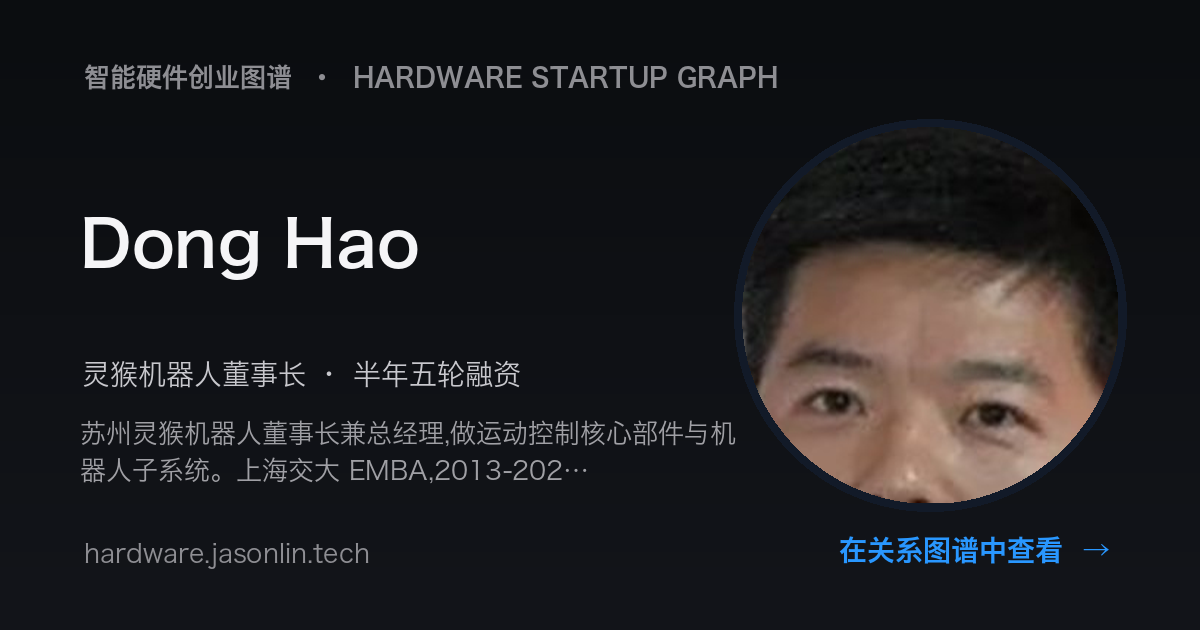
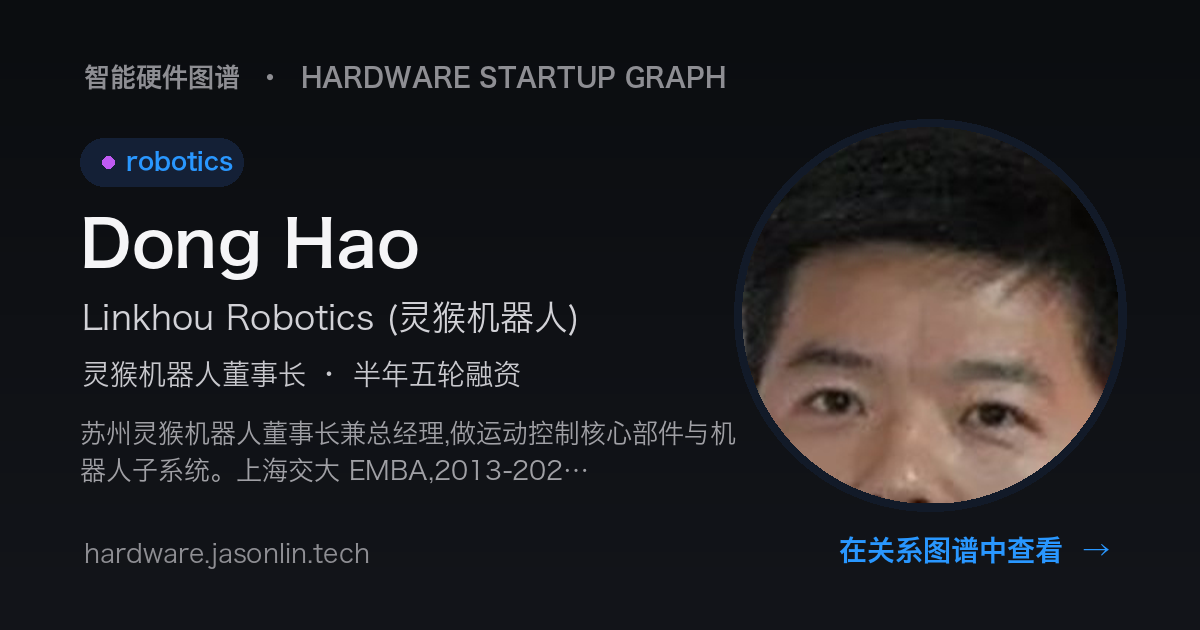
feat: 图谱周更 2026-09-05——7 条洞察(小鹏 9 亿美元/人形出货 2.2 万/Jeff Dean 创办 Discovery Loop/Inherent 27B/VAST 57 亿/QuantumLight 5 亿/Figma Q2)+ v=59;重刷 4 张 org 漏读的分享页
Claude-Session: https://claude.ai/code/session_01J8uaPH9eMgzrHih7Y7Prm5

Changed region(s): [[0.1542, 0.0905, 0.6475, 0.1508], [0.0617, 0.4825, 0.4933, 0.5429], [0.0617, 0.2111, 0.2158, 0.3016]]

diff --git a/insights-widget.js b/insights-widget.js
@@ -5,6 +5,13 @@
 // ============================================================
 
 const INSIGHTS_DATA = [
+  {"id": "vast-tripo-3b-series-b-2026-09", "date": "2026-09-01", "type": "funding", "graphs": ["ai-scholar", "investor"], "pinned": false, "title": "VAST 六个月吸金约 57 亿元：AI 3D 生成成了「半个游戏圈」的共同下注", "body": "**9 月 1 日，AI 3D 大模型公司 VAST（Tripo 母公司）宣布完成 B 轮与 B+ 轮融资，合计约 30 亿元，经纬创投领投**，完美世界、三七互娱、延趣游戏等游戏厂商集体入股，中金、CMC、达晨等老股东跟投。加上 7 月刚完成的超 10 亿元 A3 战略轮，**VAST 在不到六个月里累计融资约 57 亿元**，刷新 3D 原生智能领域纪录。创始人**宋亚宸生于 1997 年**，约翰霍普金斯本科，2019 年入商汤做 AIGC 3D，之后以 **MiniMax 001 号员工**身份参与创办 MiniMax，2022 年 11 月创立 VAST。数字侧：2025 年 7 月 ARR 达 1200 万美元；Tripo 教育计划覆盖 30 多国 350 余所高校。这轮的信号不在金额，而在**谁在出钱**——游戏公司不是财务投资人，是把自己的内容管线押在了「文本到可交互 3D 资产」上；同步发布的 Tripo P2.0 已能输出兼容 NVIDIA Isaac Sim 的物理仿真场景，3D 生成正在同时给游戏和具身智能供数据。", "persons": [{"id": "songyawei", "name": "Song Yawei"}, {"id": "zhangying", "name": "Zhang Ying"}], "sources": [{"label": "投资界 9/1", "url": "https://news.pedaily.cn/202609/568395.shtml"}, {"label": "钛媒体 9/3(创始人背景)", "url": "https://www.tmtpost.com/8127562.html"}]},
+  {"id": "xpeng-robotics-900m-round-2026-08", "date": "2026-08-25", "type": "funding", "graphs": ["hardware", "investor"], "pinned": false, "title": "小鹏机器人首轮融资超 9 亿美元、投后估值超 63 亿美元：中国具身智能单轮纪录被车企改写", "body": "**8 月 25 日，小鹏集团宣布旗下人形机器人业务完成首轮股权融资，规模超 9 亿美元，投后估值超 63 亿美元**，创下中国具身智能行业单轮私募股权融资纪录，超过此前任何一家本体公司的单轮金额。**IDG 资本领投、高榕创投参投，腾讯与阿里巴巴以战略投资者身份入局**；交割后小鹏集团仍控股，资金用于 IRON 人形机器人量产与小鹏物理 AI 模型迭代。值得注意的三点：一是**资本第一次给「车企造人」单独定价**——具身业务被从整车估值里剥离出来独立融资；二是 IDG 在同一个月同时押注了本体与上游，投资人图谱里 IDG 合伙人的具身版图再次扩大；三是这笔钱到账正好在宇树上市首日暴涨 460% 的一周后，一级市场用最快的速度把二级市场刚给出的定价锚兑现成了新估值。", "persons": [{"id": "xiaopenghe", "name": "He Xiaopeng"}, {"id": "xiongxg", "name": "Xiong Xiaoge"}, {"id": "gaorong", "name": "Gao Rong team"}], "sources": [{"label": "新浪财经 8/25", "url": "https://finance.sina.com.cn/jjxw/2026-08-25/doc-inipprnq5510289.shtml"}, {"label": "凤凰网(车企造人)", "url": "https://finance.ifeng.com/c/8vrMu2ZxSPC"}]},
+  {"id": "inherent-faraday-27b-2026-08", "date": "2026-08-22", "type": "research", "graphs": ["ai-scholar"], "pinned": false, "title": "Inherent：12 人团队用 27B 小模型「独立复现论文」胜过 Opus 4.8 与 GPT-5.5", "body": "**8 月 22 日，伦敦 AI 实验室 Inherent 发布 AI 智能体 Faraday**：在不预先知道答案的前提下独立复现已发表论文的结论，得分超过 Anthropic 的 Claude Opus 4.8 与 OpenAI 的 GPT-5.5——而底座只是 **270 亿参数的 Qwen 3.6**。公司由 DeepMind 出身的 **Edward Hughes**（首席科学家，曾共同领导 DeepMind 的 AI Scientist 团队、写下 Genie 1 的最终实现、参与 AlphaProof）、Louis Kirsch、Kaloyan Aleksiev 与 Tantum Collins 创办，5 月带着 **5000 万美元种子轮**走出隐身，目前约 12 人，年底计划扩到 20–25 人。它挑战的是一个越来越主流的假设——「科研智能体的能力来自更大的前沿模型」；Inherent 的答案是用开放式（open-ended）训练环境让小模型学会「做实验」本身。与 Jeff Dean 的 Discovery Loop、Periodic Labs 一道，「AI 科学家」正从大厂研究项目变成独立创业赛道。", "persons": [{"id": "edwardhughes", "name": "Edward Hughes"}, {"id": "jackph", "name": "Jack Parker-Holder"}], "sources": [{"label": "TechCrunch 8/22", "url": "https://techcrunch.com/2026/08/22/inherent-founded-by-deepmind-alumni-says-its-ai-teammate-just-outperformed-anthropic-and-openai-at-replicating-research/"}, {"label": "Edward Hughes 主页", "url": "https://edwardhughes.io/"}]},
+  {"id": "quantumlight-fund-ii-500m-2026-08", "date": "2026-08-19", "type": "non-consensus", "graphs": ["investor"], "pinned": false, "title": "QuantumLight 5 亿美元二期超募：算法选项目的 VC 用 15 个月把基金翻倍", "body": "**8 月 19 日，Revolut 创始人 Nik Storonsky 的风投机构 QuantumLight 宣布二期基金关账，规模 4.32 亿欧元（约 5 亿美元），超募**；距离 2025 年 5 月 2.22 亿欧元的一期仅 15 个月，规模翻倍。它的非共识在于方法：项目筛选由自研 AI 系统 **Aleph** 完成，评估成长期公司时**几乎不需要人工介入**，合伙人的角色更接近「审核算法输出」。成绩单：**27 家被投公司中 5 家已是独角兽**（Together AI、Function Health、Factory、Robin AI、Ben）。七十年来风险投资的护城河一直是关系网络与判断力，QuantumLight 押的是「数据密度已经足够让筛选被自动化」。真正的检验还没来——LP 用翻倍的钱投了赞成票，但算法型 VC 的组合从未经历过一次完整的估值回撤周期。", "persons": [], "sources": [{"label": "Fund Momentum 8/19", "url": "https://fundmomentum.vc/blog/quantumlight-fund-ii-500m-nik-storonsky-ai-driven-vc-2026"}, {"label": "Tech Funding News", "url": "https://techfundingnews.com/storonsky-quantumlight-closes-500m-fund-ii-ai-startups/"}]},
+  {"id": "humanoid-shipments-1h26-counterpoint", "date": "2026-08-19", "type": "trend", "graphs": ["hardware"], "pinned": false, "title": "上半年人形机器人出货 2.2 万台、同比近 300%：智元反超宇树登顶，但六成买家是「表演与采数据」", "body": "**Counterpoint 8 月 19 日数据：2026 上半年全球人形机器人出货超 2.2 万台，同比增长近 300%**。排名第一的是**智元（9,700 台，份额约 43%）**，宇树以 7,000 余台、31% 退居第二，两家合计约 75%，前五家占 86%——这是智元首次在出货量上反超宇树，时点恰在双方 IPO 前后。更该被看见的是用途结构：**娱乐表演与数据生产/科研合计占六成以上**，智能制造仅 13%，仓储物流 5%。换句话说，2026 年的人形机器人主要还是在「表演」和「给别的机器人当训练数据」，真正进产线的不到两成。Counterpoint 预测全年出货将超 5 万台（+210%）；对图谱里的本体公司而言，出货量榜单的座次正在替代融资额，成为新的叙事货币。", "persons": [{"id": "pengzhihui", "name": "Peng Zhihui"}, {"id": "wangxingxing", "name": "Wang Xingxing"}], "sources": [{"label": "Counterpoint 8/19", "url": "https://counterpointresearch.com/en/insights/global-humanoid-robot-shipments-soar-nearly-300-percent-yoy-in-h1-2026"}, {"label": "SCMP(智元反超宇树)", "url": "https://www.scmp.com/tech/tech-trends/article/3363544/agibot-overtakes-unitree-top-global-humanoid-robot-vendor-first-half-amid-ipo-push"}]},
+  {"id": "jeff-dean-discovery-loop-2026-08", "date": "2026-08-05", "type": "relationship", "graphs": ["ai-scholar", "investor"], "pinned": false, "title": "Jeff Dean 离开谷歌 27 年创办 Discovery Loop：带走 Ghemawat、Quoc Le、Vinyals，Alphabet 出钱又出一年算力", "body": "**8 月 5 日，谷歌首席科学家 Jeff Dean 宣布离开供职 27 年的谷歌（1999 年入职，第 30 号员工），出任新公司 Discovery Loop 的 CEO**。这是一家公益企业（PBC），目标是用 AI 自动化「提出假设—跑实验—学习结果」的科研闭环，同时并行发起数千个实验。联合创始人阵容几乎是谷歌系统与 AI 两条血脉的合流：**Sanjay Ghemawat**（Google Senior Fellow，与 Dean 合著 MapReduce/Bigtable/Spanner）、**Quoc Le**（Google Brain 创始成员）、**Oriol Vinyals**（DeepMind 研究副总裁、Gemini 联合负责人）。首轮由 **Radical Ventures 与 Khosla Ventures 联合领投**，Kleiner Perkins、Lightspeed、Doerr Capital 跟投；**Alphabet 既出资又承诺至少第一年的算力供应**——这更像谷歌为留住关系而设计的「体外孵化」，而不是一次单纯的人才流失。今年 DeepMind 已先后失去 David Silver、John Jumper 与三名核心研究员，这一次走的是「最像谷歌的那个人」。", "persons": [{"id": "dean", "name": "Jeff Dean"}, {"id": "ghemawat", "name": "Sanjay Ghemawat"}, {"id": "quocle", "name": "Quoc V. Le"}, {"id": "vinyals", "name": "Oriol Vinyals"}, {"id": "jordanjacobs", "name": "Jordan Jacobs"}, {"id": "vinodkhosla", "name": "Vinod Khosla"}], "sources": [{"label": "TechCrunch 8/5", "url": "https://techcrunch.com/2026/08/05/jeff-dean-and-other-top-ai-researchers-are-leaving-google-to-launch-their-own-startup/"}, {"label": "Bloomberg 8/6", "url": "https://www.bloomberg.com/news/articles/2026-08-06/google-grapples-with-exit-of-ai-pioneer-and-most-google-person"}]},
+  {"id": "figma-q2-2026-earnings", "date": "2026-08-05", "type": "non-consensus", "graphs": ["designer"], "pinned": false, "title": "四月被 Claude Design「杀死」的 Figma，Q2 营收增 48%、连续三个季度加速", "body": "**8 月 5 日，Figma 发布 2026 年二季度财报：营收 3.701 亿美元，同比增长 48%，连续第三个季度加速**；净收入留存率（NDR）136%，全年营收指引上调 4000 万美元至 14.63–14.67 亿美元（中值增长 39%）。这是 **AI credit 加购项完整变现的第一个季度**——客户在扩座位的同时开始为 AI 额度付费。对照四个月前的叙事：4 月 17 日 Anthropic 发布 Claude Design 当天，Figma 股价跌 6%，Adobe、Wix 同步下挫，「设计工具被前沿模型吞掉」一度成为共识。Dylan Field 在财报电话会上的回应是：**代码被商品化，价值向上移动，Figma 的机会反而变大了**。数据暂时站在他这边——至少在 2026 年，「AI 会杀死设计工具」和「设计工具因 AI 加速增长」同时成立，区别只在于谁把 AI 变成了可计费的额度。", "persons": [{"id": "dylanfield", "name": "Dylan Field"}], "sources": [{"label": "Figma IR 8/5", "url": "https://investor.figma.com/news-events/news/news-details/2026/Figma-Announces-Second-Quarter-2026-Financial-Results/default.aspx"}, {"label": "The New Stack(Claude Design 发布)", "url": "https://thenewstack.io/anthropic-claude-design-launch/"}]},
   {
     id: 'unitree-ipo-day-one-2026-08',
     date: '2026-08-20',

diff --git a/p/chenyuanpei.html b/p/chenyuanpei.html
@@ -5,28 +5,28 @@
    深色页面顶上留一条白边(2026-08-15 实测) */
 :root{color-scheme:dark}html{background:#000}</style>
 <script>try{document.documentElement.className=(localStorage.getItem('graphLang')==='en')?'lang-en':'lang-zh'}catch(e){document.documentElement.className='lang-zh'}</script>
-<title>Chen Yuanpei ·  | 智能硬件图谱</title>
+<title>Chen Yuanpei · PsiBot (灵初智能) | 智能硬件图谱</title>
 <meta name="description" content="与王启斌、柴晓杰共同创办灵初智能,是中国具身智能领域最年轻的创始人之一。2026 年 3 月前累计完成天使轮与 Pre-A 轮共 20 亿元(蓝驰创投、智元机器人为种子投资方),7 月估值破 10 亿美元。主张竞争焦点在数据而非硬件,致力于定义具身智能的 Human Data 标准。…">
 <link rel="canonical" href="https://hardware.jasonlin.tech/p/chenyuanpei.html">
 <meta property="og:type" content="profile"><meta property="og:url" content="https://hardware.jasonlin.tech/p/chenyuanpei.html">
-<meta property="og:title" content="Chen Yuanpei · ">
+<meta property="og:title" content="Chen Yuanpei · Co-founder of PsiBot · Post-00s Stanford Visiting Scholar">
 <meta property="og:description" content="与王启斌、柴晓杰共同创办灵初智能,是中国具身智能领域最年轻的创始人之一。2026 年 3 月前累计完成天使轮与 Pre-A 轮共 20 亿元(蓝驰创投、智元机器人为种子投资方),7 月估值破 10 亿美元。主张竞争焦点在数据而非硬件,致力于定义具身智能的 Human Data 标准。…">
 <meta property="og:site_name" content="智能硬件图谱"><meta property="og:locale" content="zh_CN">
 <meta property="og:image" content="https://hardware.jasonlin.tech/og/chenyuanpei.png"><meta property="og:image:width" content="1200"><meta property="og:image:height" content="630">
 <meta name="twitter:card" content="summary_large_image">
 <meta name="twitter:title" content="Chen Yuanpei"><meta name="twitter:description" content="与王启斌、柴晓杰共同创办灵初智能,是中国具身智能领域最年轻的创始人之一。2026 年 3 月前累计完成天使轮与 Pre-A 轮共 20 亿元(蓝驰创投、智元机器人为种子投资方),7 月估值破 10 亿美元。主张竞争焦点在数据而非硬件,致力于定义具身智能的 Human Data 标准。…">
 <meta name="twitter:image" content="https://hardware.jasonlin.tech/og/chenyuanpei.png">
-<script type="application/ld+json">{"@context": "https://schema.org", "@type": "ProfilePage", "mainEntity": {"@type": "Person", "name": "Chen Yuanpei", "alternateName": "陈源培", "jobTitle": "", "worksFor": {"@type": "Organization", "name": ""}, "description": "与王启斌、柴晓杰共同创办灵初智能,是中国具身智能领域最年轻的创始人之一。2026 年 3 月前累计完成天使轮与 Pre-A 轮共 20 亿元(蓝驰创投、智元机器人为种子投资方),7 月估值破 10 亿美元。主张竞争焦点在数据而非硬件,致力于定义具身智能的 Human Data 标准。", "url": "https://hardware.jasonlin.tech/p/chenyuanpei.html", "image": "https://hardware.jasonlin.tech/og/chenyuanpei.png"}}</script>
+<script type="application/ld+json">{"@context": "https://schema.org", "@type": "ProfilePage", "mainEntity": {"@type": "Person", "name": "Chen Yuanpei", "alternateName": "陈源培", "jobTitle": "Co-founder of PsiBot · Post-00s Stanford Visiting Scholar", "worksFor": {"@type": "Organization", "name": "PsiBot (灵初智能)"}, "description": "与王启斌、柴晓杰共同创办灵初智能,是中国具身智能领域最年轻的创始人之一。2026 年 3 月前累计完成天使轮与 Pre-A 轮共 20 亿元(蓝驰创投、智元机器人为种子投资方),7 月估值破 10 亿美元。主张竞争焦点在数据而非硬件,致力于定义具身智能的 Human Data 标准。", "url": "https://hardware.jasonlin.tech/p/chenyuanpei.html", "image": "https://hardware.jasonlin.tech/og/chenyuanpei.png"}}</script>
 <style>:root{color-scheme:dark}html{background:#000}</style></head><body>
 <button class="langtoggle" id="langtoggle" type="button" aria-label="切换语言 / Toggle language"><span class="i18n-zh">EN</span><span class="i18n-en">中</span></button>
 <div class="wrap">
 <a class="eyebrow" href="/"><span class="i18n-zh">智能硬件图谱</span><span class="i18n-en">Hardware Startup Graph</span> ↗</a>
 <img class="avatar" src="/assets/people/chenyuanpei.jpg" alt="Chen Yuanpei" width="108" height="108" loading="eager">
 <h1><span class="i18n-zh">陈源培</span><span class="i18n-en">Chen Yuanpei</span></h1>
-<p class="org"></p>
-<p class="role"><span class="i18n-zh">灵初智能联合创始人 · 00 后斯坦福访问学者</span><span class="i18n-en"></span></p>
-<div class="fields"></div>
-<div class="bio i18n-zh">与王启斌、柴晓杰共同创办灵初智能,是中国具身智能领域最年轻的创始人之一。2026 年 3 月前累计完成天使轮与 Pre-A 轮共 20 亿元(蓝驰创投、智元机器人为种子投资方),7 月估值破 10 亿美元。主张竞争焦点在数据而非硬件,致力于定义具身智能的 Human Data 标准。</div><div class="bio i18n-en"></div>
+<p class="org">PsiBot (灵初智能)</p>
+<p class="role"><span class="i18n-zh">灵初智能联合创始人 · 00 后斯坦福访问学者</span><span class="i18n-en">Co-founder of PsiBot · Post-00s Stanford Visiting Scholar</span></p>
+<div class="fields"><span class="tag">robotics</span><span class="tag">humanoid</span></div>
+<div class="bio i18n-zh">与王启斌、柴晓杰共同创办灵初智能,是中国具身智能领域最年轻的创始人之一。2026 年 3 月前累计完成天使轮与 Pre-A 轮共 20 亿元(蓝驰创投、智元机器人为种子投资方),7 月估值破 10 亿美元。主张竞争焦点在数据而非硬件,致力于定义具身智能的 Human Data 标准。</div><div class="bio i18n-en">Post-2000s co-founder of PsiBot (灵初智能) alongside Wang Qibin and Chai Xiaojie. A Stanford visiting scholar, he is among the youngest founders in Chinese embodied AI. PsiBot closed 2B yuan across angel and Pre-A by March 2026 (seed backers included BlueRun and Agibot) and crossed a $1B valuation in July 2026, positioning itself on the \&quot;data bottleneck\&quot; — defining Human Data standards for embodied intelligence rather than competing on hardware.</div>
 <a class="cta" href="/?node=chenyuanpei"><span class="i18n-zh">在关系图谱中查看 Chen Yuanpei →</span><span class="i18n-en">View Chen Yuanpei in the graph →</span></a>
 
 <h2><span class="i18n-zh">时间线</span><span class="i18n-en">Timeline</span></h2><ul></ul>

diff --git a/p/donghao.html b/p/donghao.html
@@ -5,28 +5,28 @@
    深色页面顶上留一条白边(2026-08-15 实测) */
 :root{color-scheme:dark}html{background:#000}</style>
 <script>try{document.documentElement.className=(localStorage.getItem('graphLang')==='en')?'lang-en':'lang-zh'}catch(e){document.documentElement.className='lang-zh'}</script>
-<title>Dong Hao ·  | 智能硬件图谱</title>
+<title>Dong Hao · Linkhou Robotics (灵猴机器人) | 智能硬件图谱</title>
 <meta name="description" content="苏州灵猴机器人董事长兼总经理,做运动控制核心部件与机器人子系统。上海交大 EMBA,2013-2023 年任博众精工副总裁。2026 年半年内连融五轮,C 轮超亿元由晨道资本领投,蔚来资本、宁德时代等参投,受益于人形机器人量产带来的零部件供给紧张。…">
 <link rel="canonical" href="https://hardware.jasonlin.tech/p/donghao.html">
 <meta property="og:type" content="profile"><meta property="og:url" content="https://hardware.jasonlin.tech/p/donghao.html">
-<meta property="og:title" content="Dong Hao · ">
+<meta property="og:title" content="Dong Hao · Chairman of Linkhou · 5 Rounds in Half a Year">
 <meta property="og:description" content="苏州灵猴机器人董事长兼总经理,做运动控制核心部件与机器人子系统。上海交大 EMBA,2013-2023 年任博众精工副总裁。2026 年半年内连融五轮,C 轮超亿元由晨道资本领投,蔚来资本、宁德时代等参投,受益于人形机器人量产带来的零部件供给紧张。…">
 <meta property="og:site_name" content="智能硬件图谱"><meta property="og:locale" content="zh_CN">
 <meta property="og:image" content="https://hardware.jasonlin.tech/og/donghao.png"><meta property="og:image:width" content="1200"><meta property="og:image:height" content="630">
 <meta name="twitter:card" content="summary_large_image">
 <meta name="twitter:title" content="Dong Hao"><meta name="twitter:description" content="苏州灵猴机器人董事长兼总经理,做运动控制核心部件与机器人子系统。上海交大 EMBA,2013-2023 年任博众精工副总裁。2026 年半年内连融五轮,C 轮超亿元由晨道资本领投,蔚来资本、宁德时代等参投,受益于人形机器人量产带来的零部件供给紧张。…">
 <meta name="twitter:image" content="https://hardware.jasonlin.tech/og/donghao.png">
-<script type="application/ld+json">{"@context": "https://schema.org", "@type": "ProfilePage", "mainEntity": {"@type": "Person", "name": "Dong Hao", "alternateName": "董浩", "jobTitle": "", "worksFor": {"@type": "Organization", "name": ""}, "description": "苏州灵猴机器人董事长兼总经理,做运动控制核心部件与机器人子系统。上海交大 EMBA,2013-2023 年任博众精工副总裁。2026 年半年内连融五轮,C 轮超亿元由晨道资本领投,蔚来资本、宁德时代等参投,受益于人形机器人量产带来的零部件供给紧张。", "url": "https://hardware.jasonlin.tech/p/donghao.html", "image": "https://hardware.jasonlin.tech/og/donghao.png"}}</script>
+<script type="application/ld+json">{"@context": "https://schema.org", "@type": "ProfilePage", "mainEntity": {"@type": "Person", "name": "Dong Hao", "alternateName": "董浩", "jobTitle": "Chairman of Linkhou · 5 Rounds in Half a Year", "worksFor": {"@type": "Organization", "name": "Linkhou Robotics (灵猴机器人)"}, "description": "苏州灵猴机器人董事长兼总经理,做运动控制核心部件与机器人子系统。上海交大 EMBA,2013-2023 年任博众精工副总裁。2026 年半年内连融五轮,C 轮超亿元由晨道资本领投,蔚来资本、宁德时代等参投,受益于人形机器人量产带来的零部件供给紧张。", "url": "https://hardware.jasonlin.tech/p/donghao.html", "image": "https://hardware.jasonlin.tech/og/donghao.png"}}</script>
 <style>:root{color-scheme:dark}html{background:#000}</style></head><body>
 <button class="langtoggle" id="langtoggle" type="button" aria-label="切换语言 / Toggle language"><span class="i18n-zh">EN</span><span class="i18n-en">中</span></button>
 <div class="wrap">
 <a class="eyebrow" href="/"><span class="i18n-zh">智能硬件图谱</span><span class="i18n-en">Hardware Startup Graph</span> ↗</a>
 <img class="avatar" src="/assets/people/donghao.jpg" alt="Dong Hao" width="108" height="108" loading="eager">
 <h1><span class="i18n-zh">董浩</span><span class="i18n-en">Dong Hao</span></h1>
-<p class="org"></p>
-<p class="role"><span class="i18n-zh">灵猴机器人董事长 · 半年五轮融资</span><span class="i18n-en"></span></p>
-<div class="fields"></div>
-<div class="bio i18n-zh">苏州灵猴机器人董事长兼总经理,做运动控制核心部件与机器人子系统。上海交大 EMBA,2013-2023 年任博众精工副总裁。2026 年半年内连融五轮,C 轮超亿元由晨道资本领投,蔚来资本、宁德时代等参投,受益于人形机器人量产带来的零部件供给紧张。</div><div class="bio i18n-en"></div>
+<p class="org">Linkhou Robotics (灵猴机器人)</p>
+<p class="role"><span class="i18n-zh">灵猴机器人董事长 · 半年五轮融资</span><span class="i18n-en">Chairman of Linkhou · 5 Rounds in Half a Year</span></p>
+<div class="fields"><span class="tag">robotics</span></div>
+<div class="bio i18n-zh">苏州灵猴机器人董事长兼总经理,做运动控制核心部件与机器人子系统。上海交大 EMBA,2013-2023 年任博众精工副总裁。2026 年半年内连融五轮,C 轮超亿元由晨道资本领投,蔚来资本、宁德时代等参投,受益于人形机器人量产带来的零部件供给紧张。</div><div class="bio i18n-en">Chairman and GM of Suzhou-based Linkhou Robotics, a maker of motion-control components and robot subsystems. SJTU EMBA; VP of Bozhon Precision 2013-2023. Linkhou raised five rounds within six months of 2026 — Pre-B, B+, then a C round of over 100M yuan led by Chendao Capital — with NIO Capital and CATL among backers, riding the component-supply squeeze created by China&#x27;s humanoid boom.</div>
 <a class="cta" href="/?node=donghao"><span class="i18n-zh">在关系图谱中查看 Dong Hao →</span><span class="i18n-en">View Dong Hao in the graph →</span></a>
 
 <h2><span class="i18n-zh">时间线</span><span class="i18n-en">Timeline</span></h2><ul></ul>

diff --git a/p/wuchangzheng.html b/p/wuchangzheng.html
@@ -5,28 +5,28 @@
    深色页面顶上留一条白边(2026-08-15 实测) */
 :root{color-scheme:dark}html{background:#000}</style>
 <script>try{document.documentElement.className=(localStorage.getItem('graphLang')==='en')?'lang-en':'lang-zh'}catch(e){document.documentElement.className='lang-zh'}</script>
-<title>Wu Changzheng ·  | 智能硬件图谱</title>
+<title>Wu Changzheng · MagicLab (魔法原子) | 智能硬件图谱</title>
 <meta name="description" content="原小米 CyberDog(铁蛋)团队负责人。2024 年 1 月出任追觅孵化的魔法原子创始总裁,2025 年交付数百台人形机器人,并斥资约 1 亿元让机器人登上央视春晚。2026 年 1 月卸任总经理、3 月离职启动个人创业。…">
 <link rel="canonical" href="https://hardware.jasonlin.tech/p/wuchangzheng.html">
 <meta property="og:type" content="profile"><meta property="og:url" content="https://hardware.jasonlin.tech/p/wuchangzheng.html">
-<meta property="og:title" content="Wu Changzheng · ">
+<meta property="og:title" content="Wu Changzheng · Founding President of MagicLab · Xiaomi CyberDog Team">
 <meta property="og:description" content="原小米 CyberDog(铁蛋)团队负责人。2024 年 1 月出任追觅孵化的魔法原子创始总裁,2025 年交付数百台人形机器人,并斥资约 1 亿元让机器人登上央视春晚。2026 年 1 月卸任总经理、3 月离职启动个人创业。…">
 <meta property="og:site_name" content="智能硬件图谱"><meta property="og:locale" content="zh_CN">
 <meta property="og:image" content="https://hardware.jasonlin.tech/og/wuchangzheng.png"><meta property="og:image:width" content="1200"><meta property="og:image:height" content="630">
 <meta name="twitter:card" content="summary_large_image">
 <meta name="twitter:title" content="Wu Changzheng"><meta name="twitter:description" content="原小米 CyberDog(铁蛋)团队负责人。2024 年 1 月出任追觅孵化的魔法原子创始总裁,2025 年交付数百台人形机器人,并斥资约 1 亿元让机器人登上央视春晚。2026 年 1 月卸任总经理、3 月离职启动个人创业。…">
 <meta name="twitter:image" content="https://hardware.jasonlin.tech/og/wuchangzheng.png">
-<script type="application/ld+json">{"@context": "https://schema.org", "@type": "ProfilePage", "mainEntity": {"@type": "Person", "name": "Wu Changzheng", "alternateName": "吴长征", "jobTitle": "", "worksFor": {"@type": "Organization", "name": ""}, "description": "原小米 CyberDog(铁蛋)团队负责人。2024 年 1 月出任追觅孵化的魔法原子创始总裁,2025 年交付数百台人形机器人,并斥资约 1 亿元让机器人登上央视春晚。2026 年 1 月卸任总经理、3 月离职启动个人创业。", "url": "https://hardware.jasonlin.tech/p/wuchangzheng.html", "image": "https://hardware.jasonlin.tech/og/wuchangzheng.png"}}</script>
+<script type="application/ld+json">{"@context": "https://schema.org", "@type": "ProfilePage", "mainEntity": {"@type": "Person", "name": "Wu Changzheng", "alternateName": "吴长征", "jobTitle": "Founding President of MagicLab · Xiaomi CyberDog Team", "worksFor": {"@type": "Organization", "name": "MagicLab (魔法原子)"}, "description": "原小米 CyberDog(铁蛋)团队负责人。2024 年 1 月出任追觅孵化的魔法原子创始总裁,2025 年交付数百台人形机器人,并斥资约 1 亿元让机器人登上央视春晚。2026 年 1 月卸任总经理、3 月离职启动个人创业。", "url": "https://hardware.jasonlin.tech/p/wuchangzheng.html", "image": "https://hardware.jasonlin.tech/og/wuchangzheng.png"}}</script>
 <style>:root{color-scheme:dark}html{background:#000}</style></head><body>
 <button class="langtoggle" id="langtoggle" type="button" aria-label="切换语言 / Toggle language"><span class="i18n-zh">EN</span><span class="i18n-en">中</span></button>
 <div class="wrap">
 <a class="eyebrow" href="/"><span class="i18n-zh">智能硬件图谱</span><span class="i18n-en">Hardware Startup Graph</span> ↗</a>
 <img class="avatar" src="/assets/people/wuchangzheng.jpg" alt="Wu Changzheng" width="108" height="108" loading="eager">
 <h1><span class="i18n-zh">吴长征</span><span class="i18n-en">Wu Changzheng</span></h1>
-<p class="org"></p>
-<p class="role"><span class="i18n-zh">魔法原子创始总裁 · 小米铁蛋原班人马</span><span class="i18n-en"></span></p>
-<div class="fields"></div>
-<div class="bio i18n-zh">原小米 CyberDog(铁蛋)团队负责人。2024 年 1 月出任追觅孵化的魔法原子创始总裁,2025 年交付数百台人形机器人,并斥资约 1 亿元让机器人登上央视春晚。2026 年 1 月卸任总经理、3 月离职启动个人创业。</div><div class="bio i18n-en"></div>
+<p class="org">MagicLab (魔法原子)</p>
+<p class="role"><span class="i18n-zh">魔法原子创始总裁 · 小米铁蛋原班人马</span><span class="i18n-en">Founding President of MagicLab · Xiaomi CyberDog Team</span></p>
+<div class="fields"><span class="tag">robotics</span><span class="tag">humanoid</span></div>
+<div class="bio i18n-zh">原小米 CyberDog(铁蛋)团队负责人。2024 年 1 月出任追觅孵化的魔法原子创始总裁,2025 年交付数百台人形机器人,并斥资约 1 亿元让机器人登上央视春晚。2026 年 1 月卸任总经理、3 月离职启动个人创业。</div><div class="bio i18n-en">Led the original Xiaomi CyberDog (Tiedan) team before joining Dreame-incubated MagicLab as founding president in Jan 2024. MagicLab delivered hundreds of humanoids in 2025 and famously spent ~100M yuan putting its robots on the CCTV Spring Festival Gala. Raised a 150M yuan angel round led by Dreame&#x27;s venture arm, then a several-hundred-million strategic round in May 2025. He stepped down as general manager in Jan 2026 and left in March to start his own venture.</div>
 <a class="cta" href="/?node=wuchangzheng"><span class="i18n-zh">在关系图谱中查看 Wu Changzheng →</span><span class="i18n-en">View Wu Changzheng in the graph →</span></a>
 
 <h2><span class="i18n-zh">时间线</span><span class="i18n-en">Timeline</span></h2><ul></ul>

diff --git a/p/lizhenyu.html b/p/lizhenyu.html
@@ -5,28 +5,28 @@
    深色页面顶上留一条白边(2026-08-15 实测) */
 :root{color-scheme:dark}html{background:#000}</style>
 <script>try{document.documentElement.className=(localStorage.getItem('graphLang')==='en')?'lang-en':'lang-zh'}catch(e){document.documentElement.className='lang-zh'}</script>
-<title>Li Zhenyu ·  | 智能硬件图谱</title>
+<title>Li Zhenyu · TARS (它石智航) | 智能硬件图谱</title>
 <meta name="description" content="2026 年 4 月带领它石智航完成 4.55 亿美元 Pre-A 轮(高瓴创投与红杉中国联合领投),创下中国具身智能单轮融资纪录。与 CEO 陈亦伦(原华为自动驾驶 CTO)搭档,押注自动驾驶方法论可迁移到通用机器人。…">
 <link rel="canonical" href="https://hardware.jasonlin.tech/p/lizhenyu.html">
 <meta property="og:type" content="profile"><meta property="og:url" content="https://hardware.jasonlin.tech/p/lizhenyu.html">
-<meta property="og:title" content="Li Zhenyu · ">
+<meta property="og:title" content="Li Zhenyu · Chairman of TARS · Ex-Baidu IDG President">
 <meta property="og:description" content="2026 年 4 月带领它石智航完成 4.55 亿美元 Pre-A 轮(高瓴创投与红杉中国联合领投),创下中国具身智能单轮融资纪录。与 CEO 陈亦伦(原华为自动驾驶 CTO)搭档,押注自动驾驶方法论可迁移到通用机器人。…">
 <meta property="og:site_name" content="智能硬件图谱"><meta property="og:locale" content="zh_CN">
 <meta property="og:image" content="https://hardware.jasonlin.tech/og/lizhenyu.png"><meta property="og:image:width" content="1200"><meta property="og:image:height" content="630">
 <meta name="twitter:card" content="summary_large_image">
 <meta name="twitter:title" content="Li Zhenyu"><meta name="twitter:description" content="2026 年 4 月带领它石智航完成 4.55 亿美元 Pre-A 轮(高瓴创投与红杉中国联合领投),创下中国具身智能单轮融资纪录。与 CEO 陈亦伦(原华为自动驾驶 CTO)搭档,押注自动驾驶方法论可迁移到通用机器人。…">
 <meta name="twitter:image" content="https://hardware.jasonlin.tech/og/lizhenyu.png">
-<script type="application/ld+json">{"@context": "https://schema.org", "@type": "ProfilePage", "mainEntity": {"@type": "Person", "name": "Li Zhenyu", "alternateName": "李震宇", "jobTitle": "", "worksFor": {"@type": "Organization", "name": ""}, "description": "2026 年 4 月带领它石智航完成 4.55 亿美元 Pre-A 轮(高瓴创投与红杉中国联合领投),创下中国具身智能单轮融资纪录。与 CEO 陈亦伦(原华为自动驾驶 CTO)搭档,押注自动驾驶方法论可迁移到通用机器人。", "url": "https://hardware.jasonlin.tech/p/lizhenyu.html", "image": "https://hardware.jasonlin.tech/og/lizhenyu.png"}}</script>
+<script type="application/ld+json">{"@context": "https://schema.org", "@type": "ProfilePage", "mainEntity": {"@type": "Person", "name": "Li Zhenyu", "alternateName": "李震宇", "jobTitle": "Chairman of TARS · Ex-Baidu IDG President", "worksFor": {"@type": "Organization", "name": "TARS (它石智航)"}, "description": "2026 年 4 月带领它石智航完成 4.55 亿美元 Pre-A 轮(高瓴创投与红杉中国联合领投),创下中国具身智能单轮融资纪录。与 CEO 陈亦伦(原华为自动驾驶 CTO)搭档,押注自动驾驶方法论可迁移到通用机器人。", "url": "https://hardware.jasonlin.tech/p/lizhenyu.html", "image": "https://hardware.jasonlin.tech/og/lizhenyu.png"}}</script>
 <style>:root{color-scheme:dark}html{background:#000}</style></head><body>
 <button class="langtoggle" id="langtoggle" type="button" aria-label="切换语言 / Toggle language"><span class="i18n-zh">EN</span><span class="i18n-en">中</span></button>
 <div class="wrap">
 <a class="eyebrow" href="/"><span class="i18n-zh">智能硬件图谱</span><span class="i18n-en">Hardware Startup Graph</span> ↗</a>
 <img class="avatar" src="/assets/people/lizhenyu.jpg" alt="Li Zhenyu" width="108" height="108" loading="eager">
 <h1><span class="i18n-zh">李震宇</span><span class="i18n-en">Li Zhenyu</span></h1>
-<p class="org"></p>
-<p class="role"><span class="i18n-zh">它石智航董事长 · 原百度智能驾驶事业群总裁</span><span class="i18n-en"></span></p>
-<div class="fields"></div>
-<div class="bio i18n-zh">2026 年 4 月带领它石智航完成 4.55 亿美元 Pre-A 轮(高瓴创投与红杉中国联合领投),创下中国具身智能单轮融资纪录。与 CEO 陈亦伦(原华为自动驾驶 CTO)搭档,押注自动驾驶方法论可迁移到通用机器人。</div><div class="bio i18n-en"></div>
+<p class="org">TARS (它石智航)</p>
+<p class="role"><span class="i18n-zh">它石智航董事长 · 原百度智能驾驶事业群总裁</span><span class="i18n-en">Chairman of TARS · Ex-Baidu IDG President</span></p>
+<div class="fields"><span class="tag">robotics</span><span class="tag">humanoid</span><span class="tag">ai-infra</span></div>
+<div class="bio i18n-zh">2026 年 4 月带领它石智航完成 4.55 亿美元 Pre-A 轮(高瓴创投与红杉中国联合领投),创下中国具身智能单轮融资纪录。与 CEO 陈亦伦(原华为自动驾驶 CTO)搭档,押注自动驾驶方法论可迁移到通用机器人。</div><div class="bio i18n-en">Chairman of TARS (它石智航), the embodied-AI company that raised a record $455M Pre-A in April 2026 co-led by Hillhouse and Sequoia China — the largest single round in Chinese embodied AI. Formerly president of Baidu&#x27;s Intelligent Driving Group, he pairs with CEO Chen Yilun (ex-Huawei autonomous-driving CTO) on a bet that the autonomous-driving playbook transfers to general-purpose robots.</div>
 <a class="cta" href="/?node=lizhenyu"><span class="i18n-zh">在关系图谱中查看 Li Zhenyu →</span><span class="i18n-en">View Li Zhenyu in the graph →</span></a>
 
 <h2><span class="i18n-zh">时间线</span><span class="i18n-en">Timeline</span></h2><ul></ul>

diff --git a/index.html b/index.html
@@ -1211,7 +1211,7 @@ body.no-insights #graph-container {
 
 <!-- Insights Section (rendered by insights-widget.js) -->
 <section id="insights-section" data-graph="hardware"></section>
-<script src="insights-widget.js?v=58" defer></script>
+<script src="insights-widget.js?v=59" defer></script>
 
 <script>
 // ===================================================================
